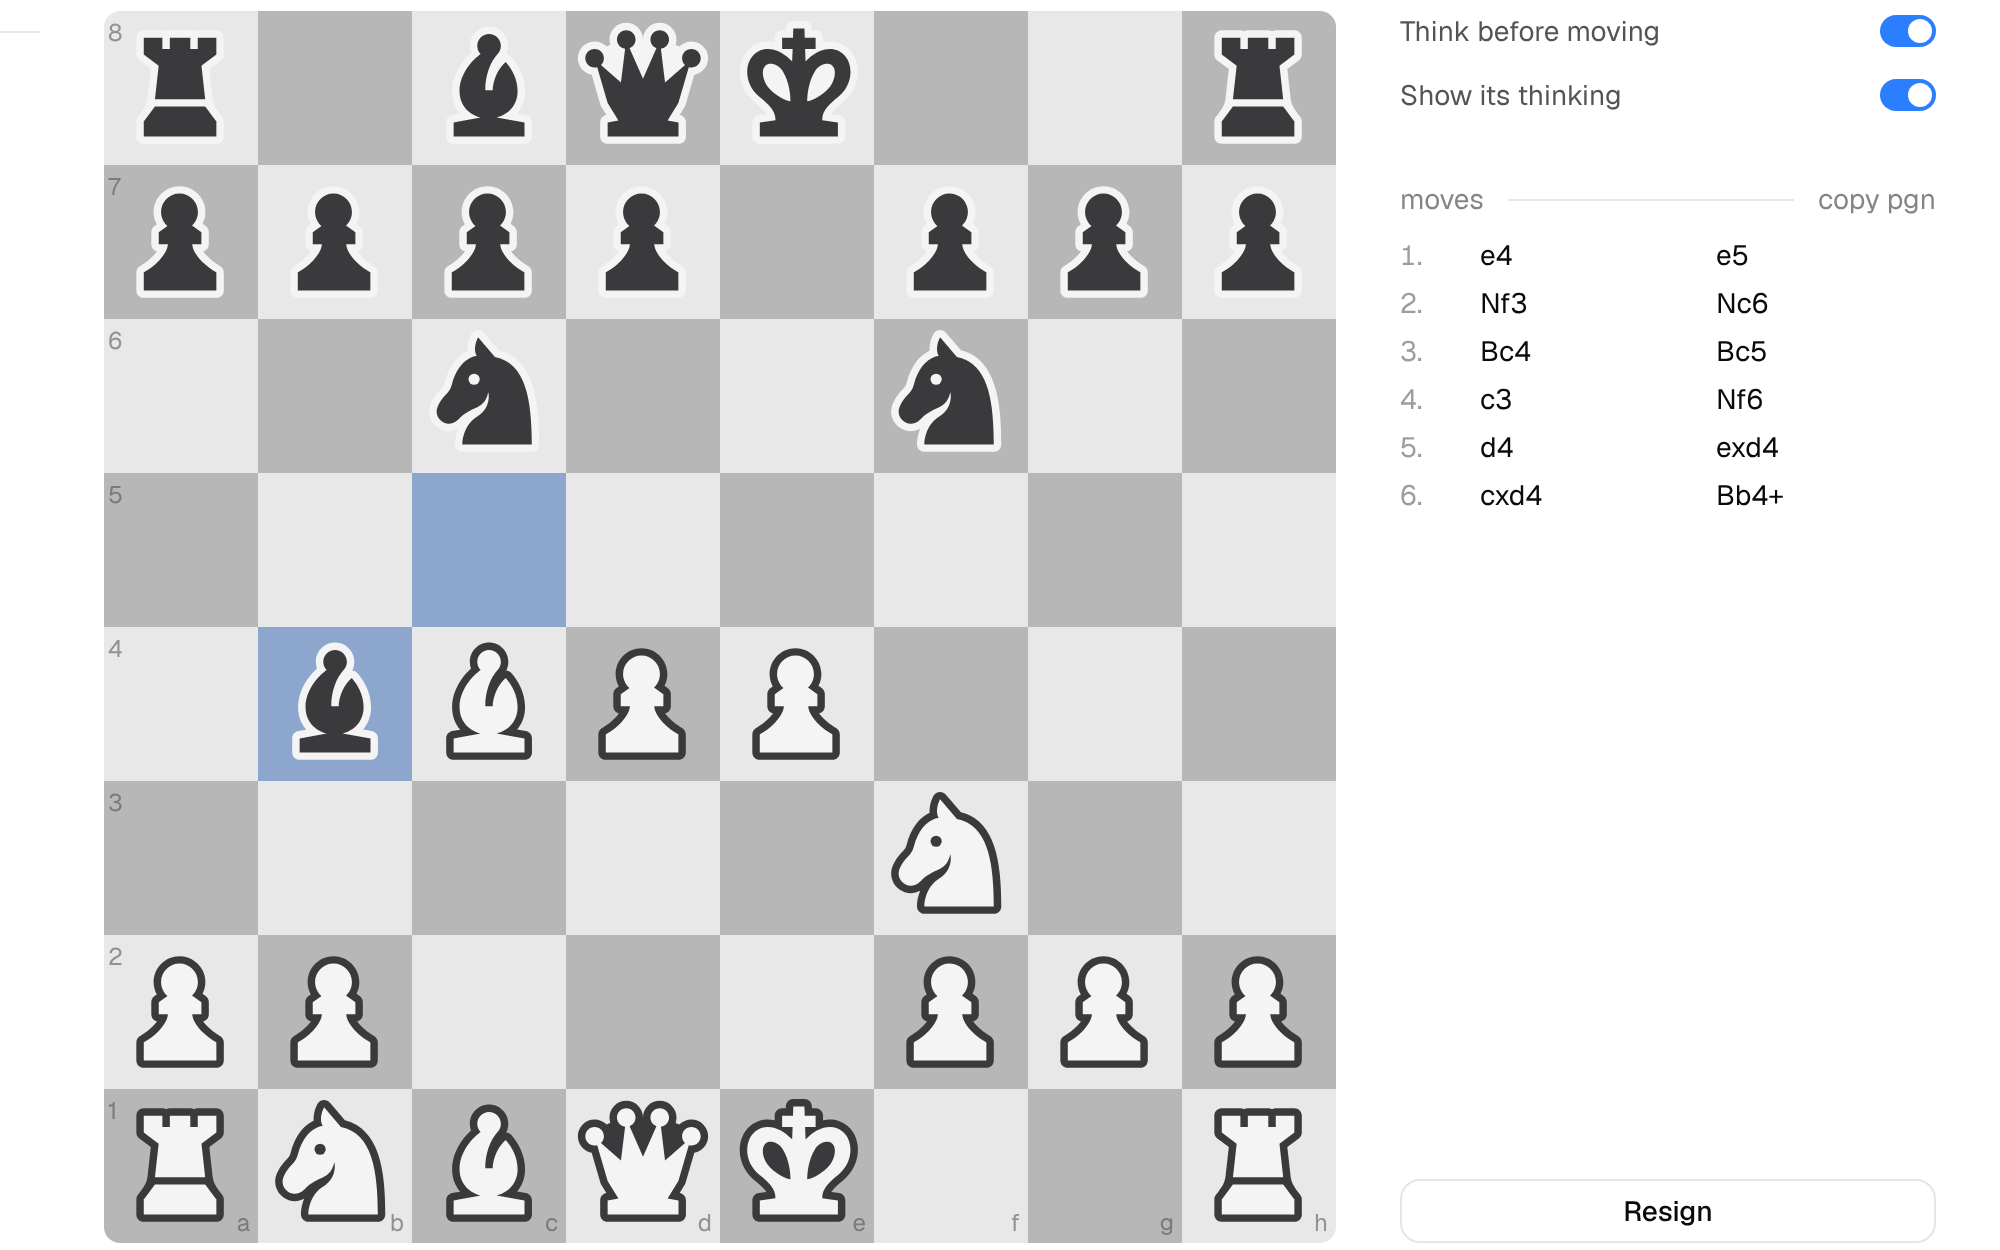
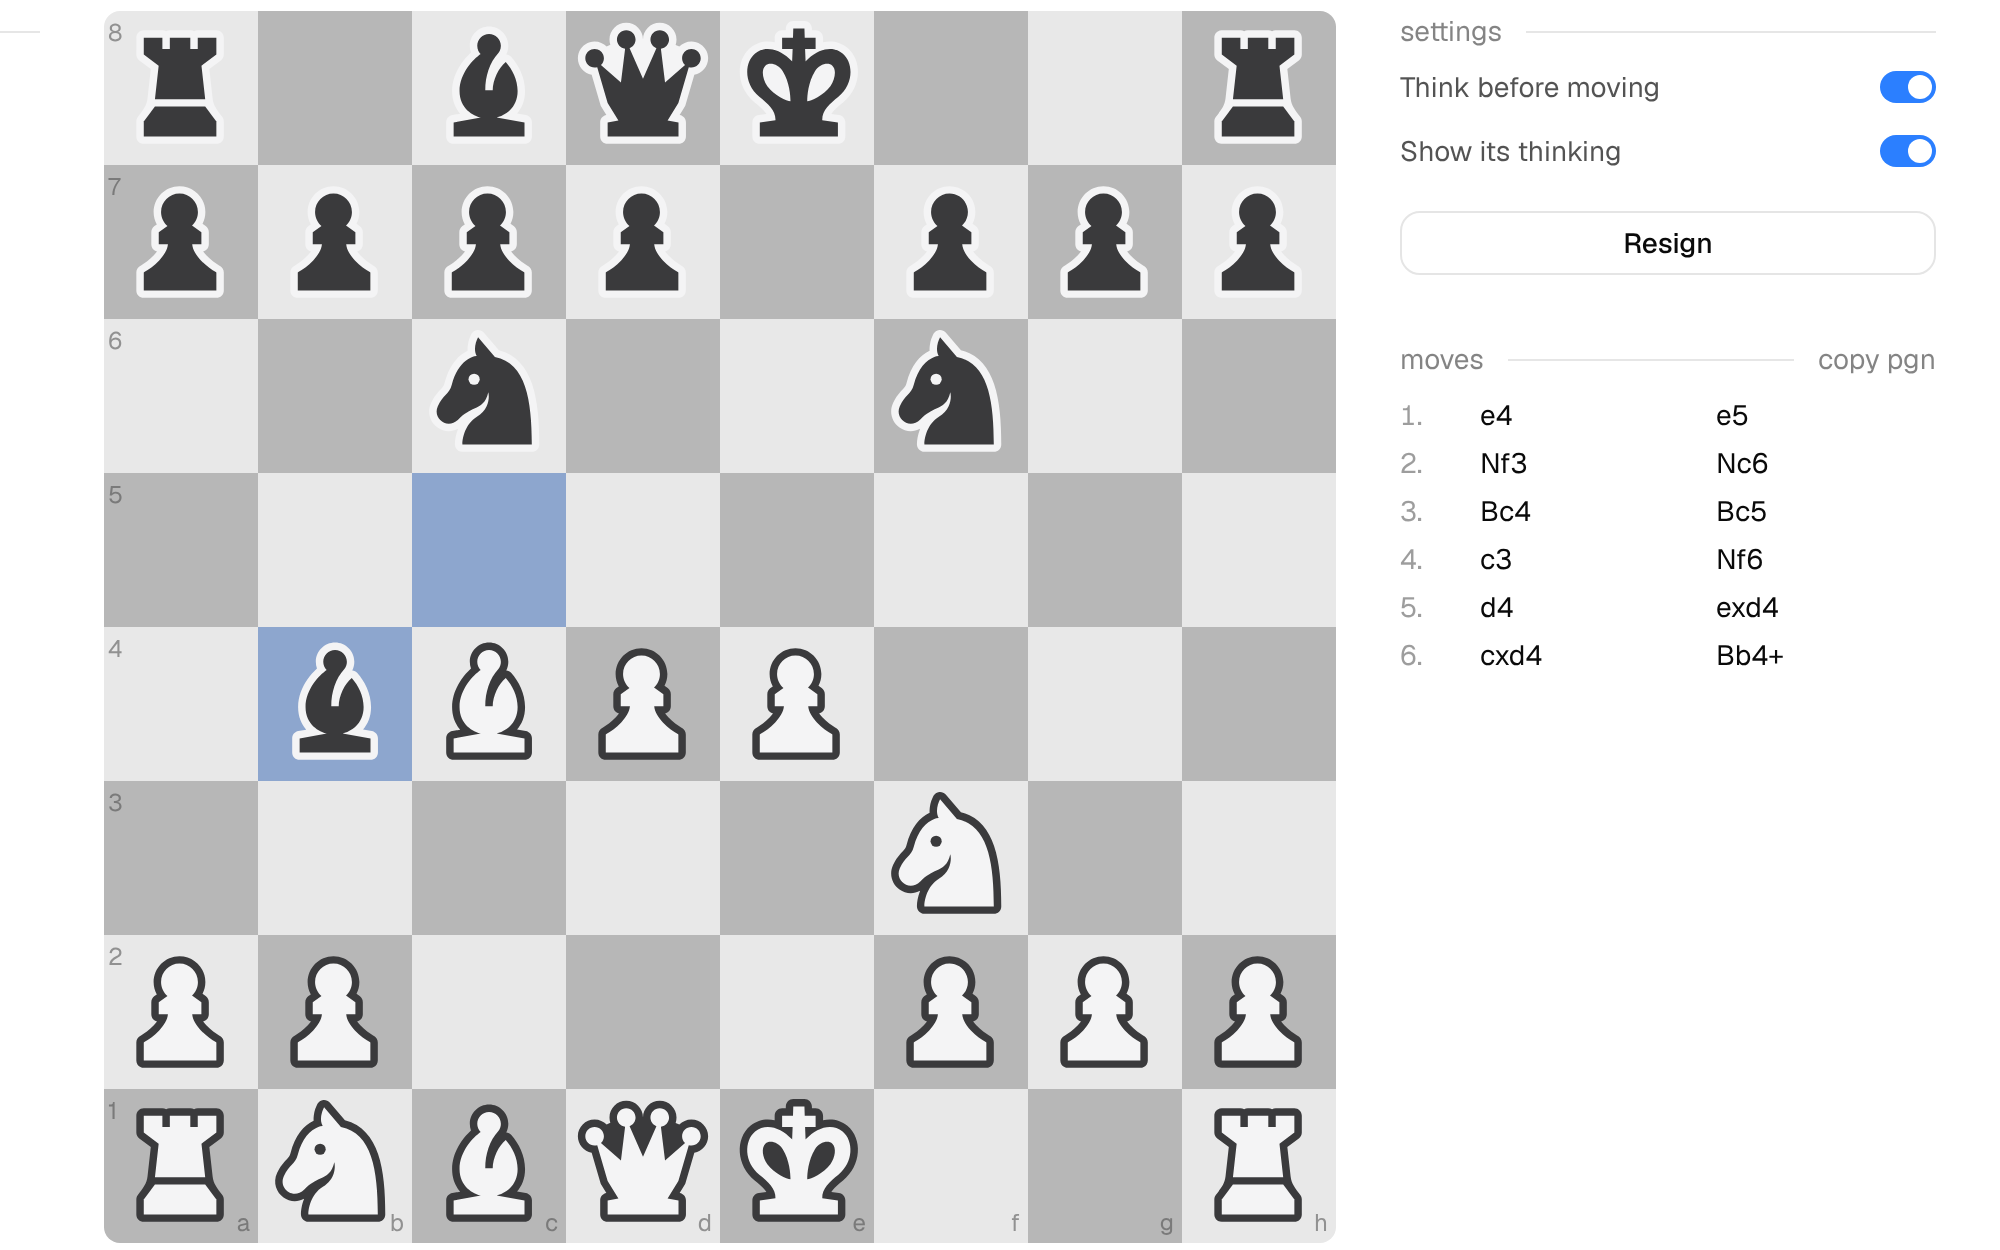
Move Resign into the chess settings section
Claude-Session: https://claude.ai/code/session_01HGKG6U7k8wdaAMMQaDu5Q7

diff --git a/workspaces/web/app/components/chess/Game.tsx b/workspaces/web/app/components/chess/Game.tsx
@@ -381,6 +381,22 @@ export default function Game() {
 										onChange={(on) => update({ showThinking: on })}
 									/>
 								</div>
+								<div className="mt-3 flex flex-col gap-2">
+									{phase === 'playing' ? (
+										<Button variant="outline" onClick={resign}>
+											Resign
+										</Button>
+									) : (
+										<>
+											<Button className={ACCENT_BUTTON} onClick={start}>
+												Rematch
+											</Button>
+											<Button variant="outline" onClick={() => reset('setup')}>
+												New opponent
+											</Button>
+										</>
+									)}
+								</div>
 							</Section>
 							<Section
 								label="moves"
@@ -404,23 +420,6 @@ export default function Game() {
 									</p>
 								)}
 							</Section>
-							{/* pinned to the bottom of the rail, level with the board's foot */}
-							<div className="flex flex-col gap-2 xl:mt-auto">
-								{phase === 'playing' ? (
-									<Button variant="outline" onClick={resign}>
-										Resign
-									</Button>
-								) : (
-									<>
-										<Button className={ACCENT_BUTTON} onClick={start}>
-											Rematch
-										</Button>
-										<Button variant="outline" onClick={() => reset('setup')}>
-											New opponent
-										</Button>
-									</>
-								)}
-							</div>
 						</>
 					)
 				)}
